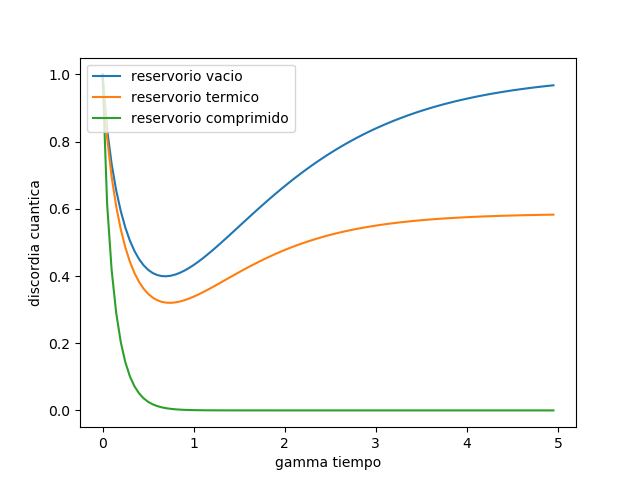
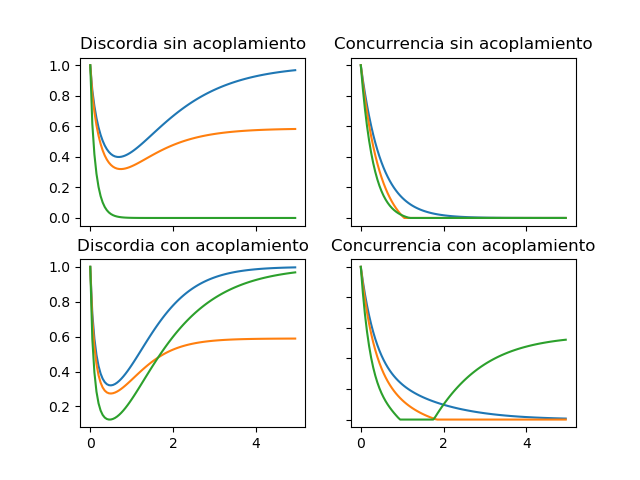
Cambio generado con script

diff --git a/master.py b/master.py
@@ -59,15 +59,25 @@ tiempo = [(1/20)*i for i in range(100)]#Intervalo de tiempo para los gráficos
 print(me2(I1,S0S)[1])
  
 #Graficar
-figure()
-plot(tiempo,np.array(me2(I1,S0S)[1]))
-plot(tiempo,np.array(me2(I1,S1S)[1]))
-plot(tiempo,np.array(me2(I1,S2S)[1]))
-xlabel('gamma tiempo')
-ylabel('discordia cuantica')
-legend(('reservorio vacio', 'reservorio termico','reservorio comprimido'))
+fig, axs = subplots(2,2)
+axs[0,0].plot(tiempo,me2(I1,S0S)[1])
+axs[0,0].plot(tiempo,me2(I1,S1S)[1])
+axs[0,0].plot(tiempo,me2(I1,S2S)[1])
+axs[0,0].set_title('Discordia sin acoplamiento')
+axs[0,1].plot(tiempo,me2(I1,S0S)[0])
+axs[0,1].plot(tiempo,me2(I1,S1S)[0])
+axs[0,1].plot(tiempo,me2(I1,S2S)[0])
+axs[0,1].set_title('Concurrencia sin acoplamiento')
+axs[1,0].plot(tiempo,me2(I1,S0C)[1])
+axs[1,0].plot(tiempo,me2(I1,S1C)[1])
+axs[1,0].plot(tiempo,me2(I1,S2C)[1])
+axs[1,0].set_title('Discordia con acoplamiento')
+axs[1,1].plot(tiempo,me2(I1,S0C)[0])
+axs[1,1].plot(tiempo,me2(I1,S1C)[0])
+axs[1,1].plot(tiempo,me2(I1,S2C)[0])
+axs[1,1].set_title('Concurrencia con acoplamiento')
+for ax in fig.get_axes():
+    ax.label_outer()
 savefig('bell1.png')
-
-
 
 
